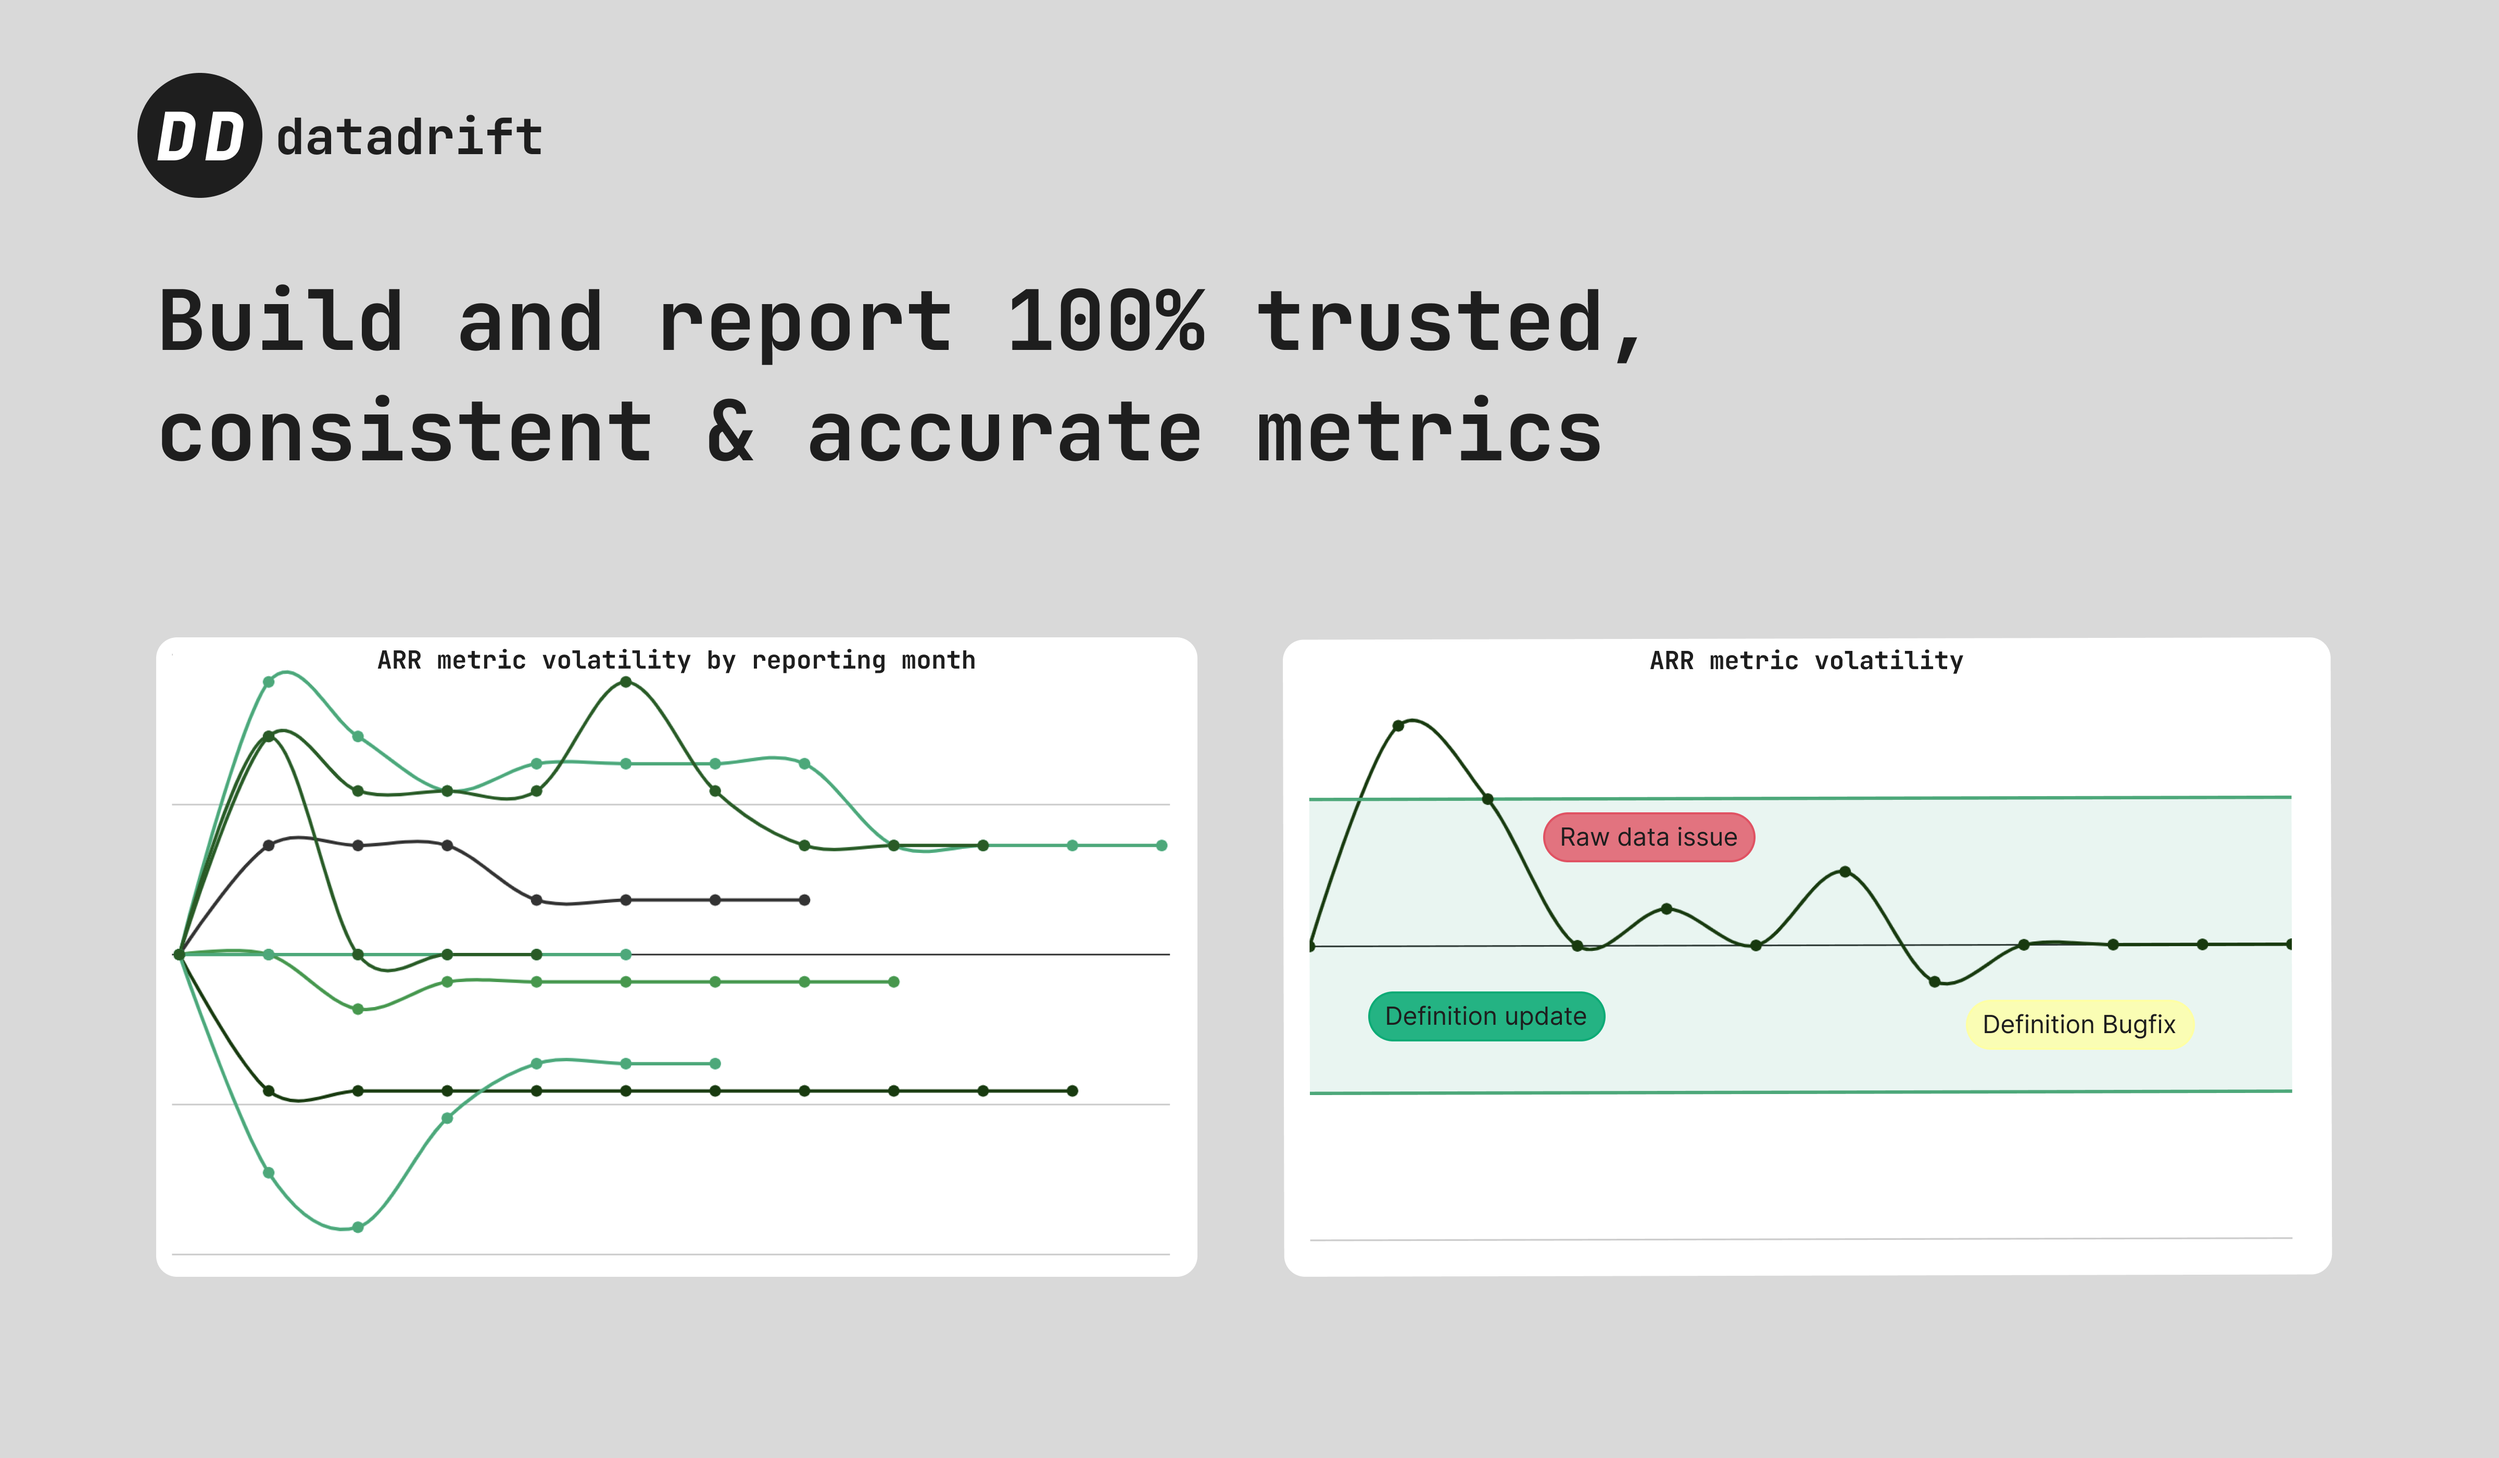
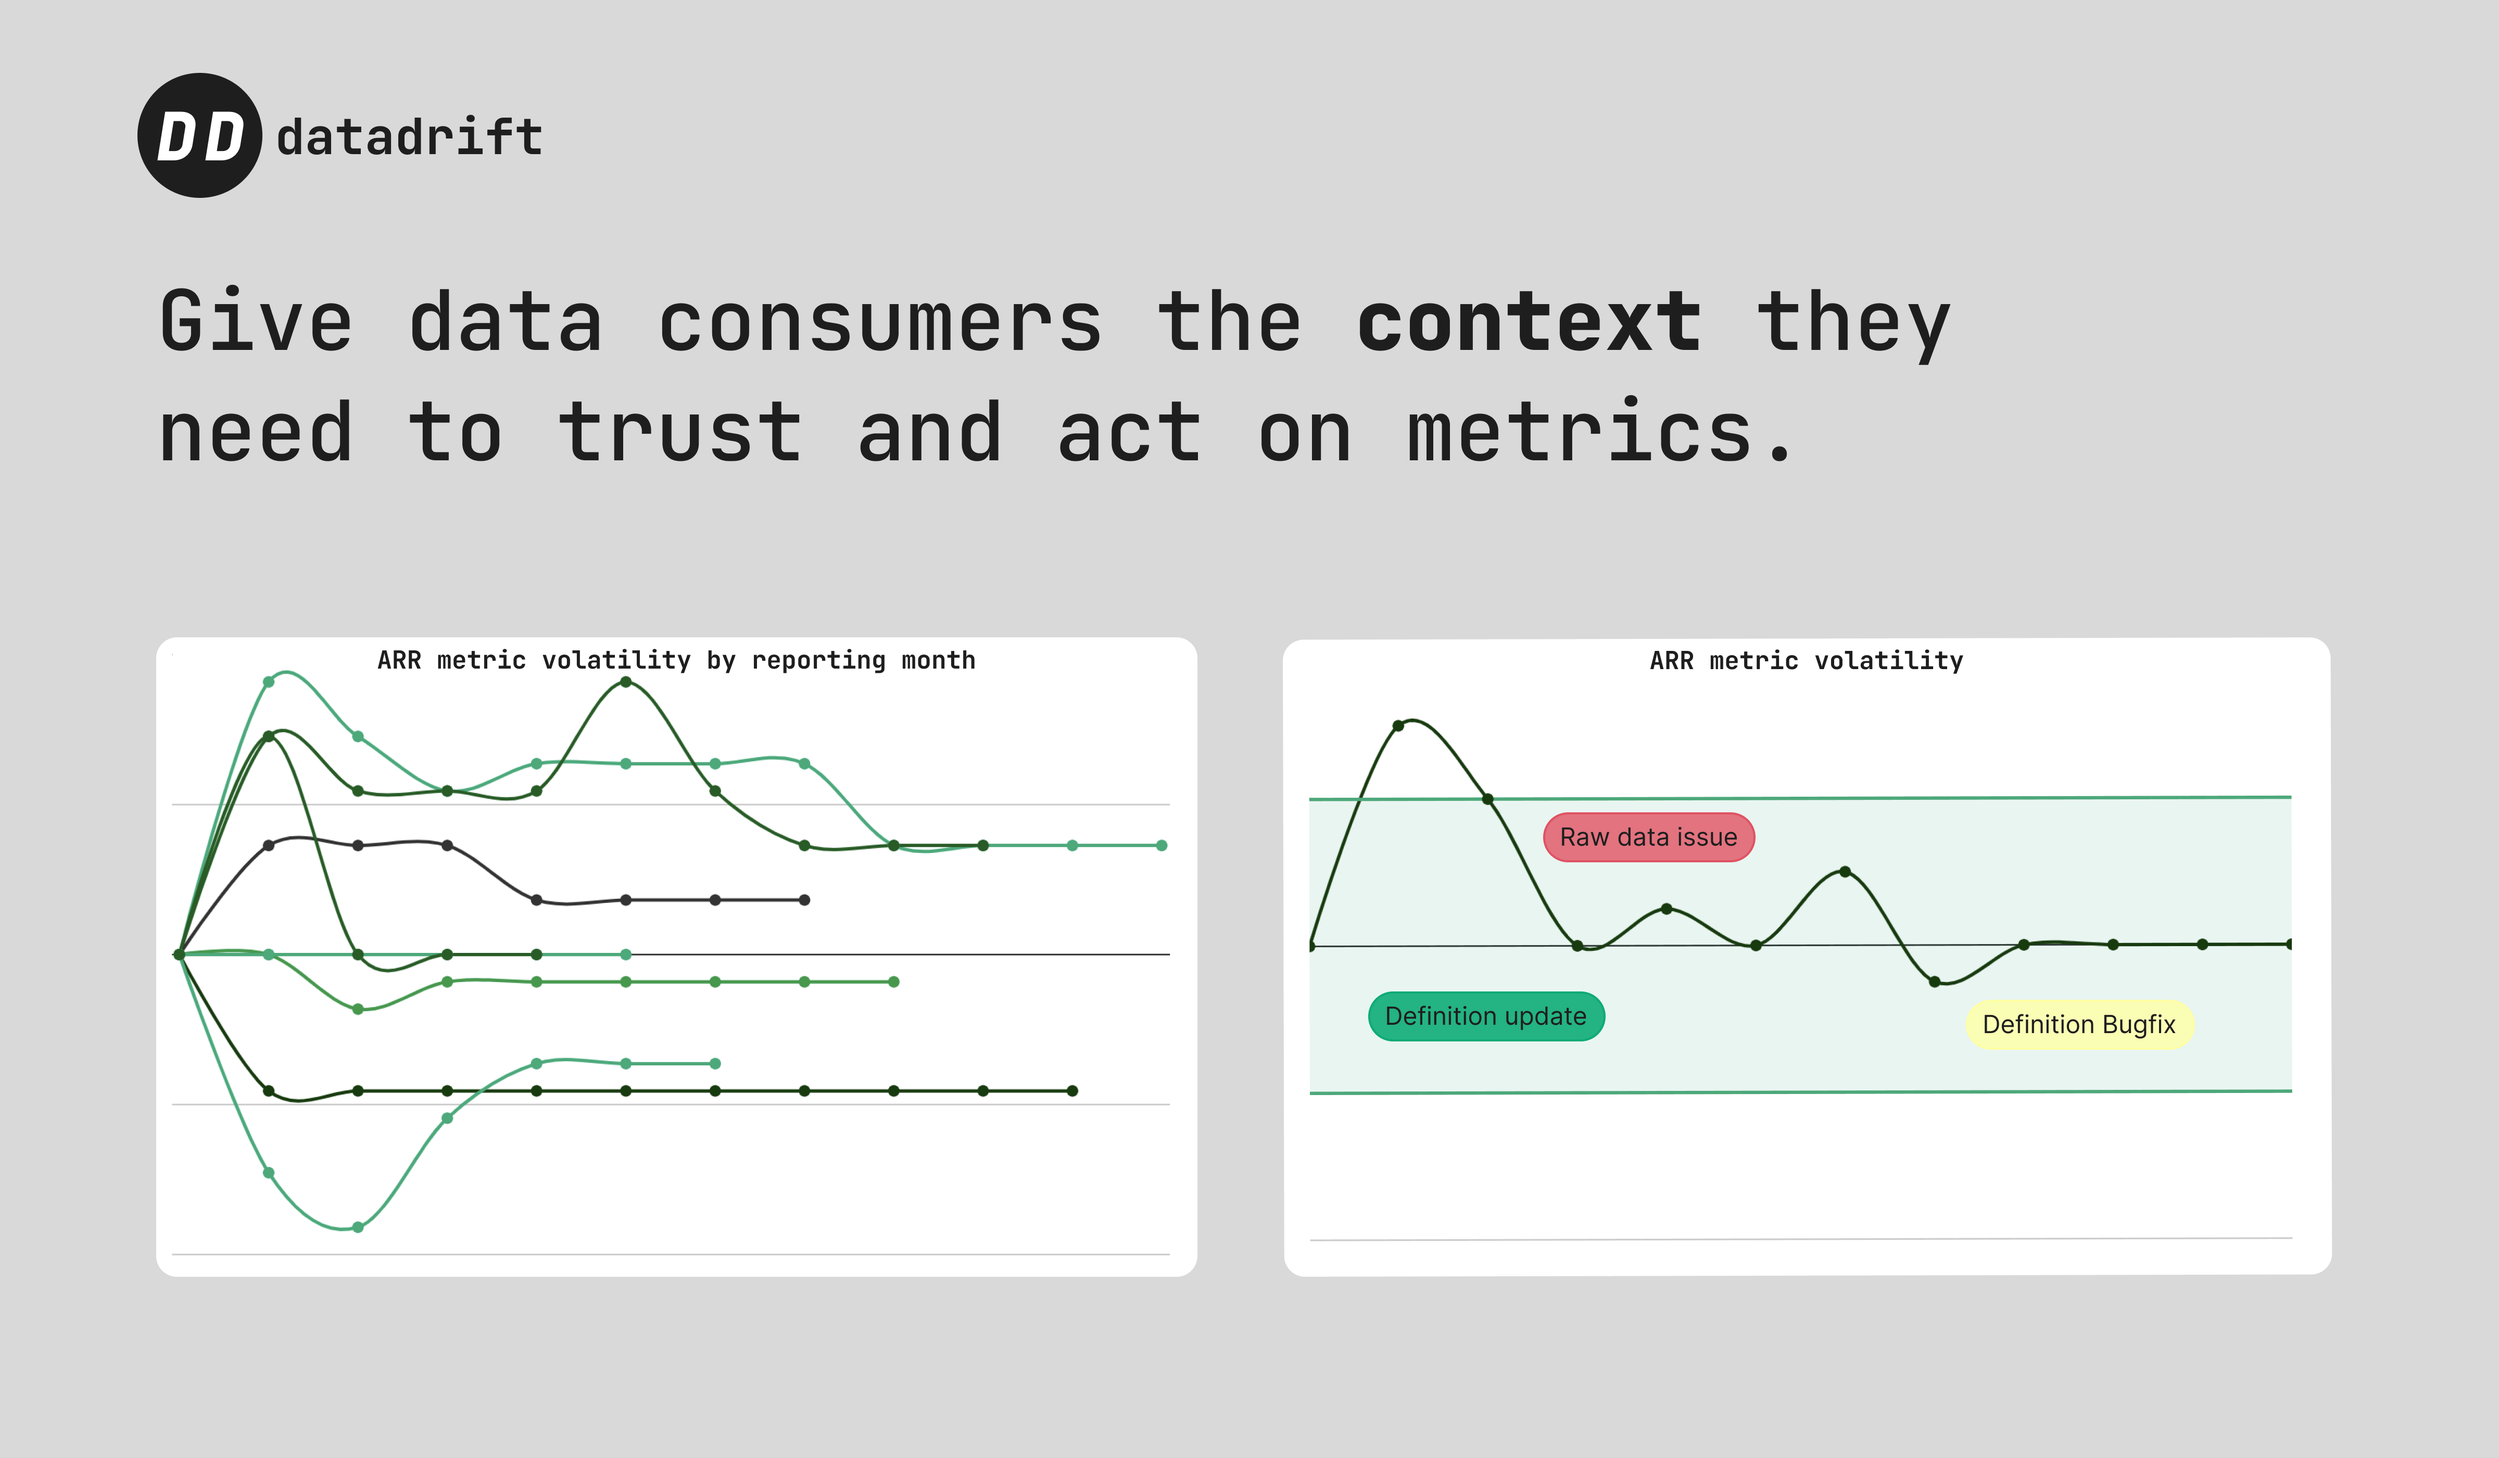
chore: update readme (#41)

Changed region(s): [[0.0625, 0.1864, 0.7812, 0.2486], [0.0625, 0.2796, 0.7188, 0.3418]]

diff --git a/README.md b/README.md
@@ -5,41 +5,114 @@
   </a>
 </p>
 
-<h1 align="center" >A Changelog for Data</h1>
-<p align="center">Git-Based. Data-Consumer-Friendly.</p>
+<h1 align="center" >The Context Layer for your Metrics</h1>
+<p align="center">Supercharge your semantic layer with context & observability to built trusted and actionnable metrics</p>
 
-<p align="center"><a href="https://data-drift.io">Website</a> · <a href="https://www.data-drift.io/blog">Blog</a></p>
-
+<p align="center"><a href="https://data-drift.io">Website</a> · <a href="https://www.data-drift.io/blog">Blog</a> · <a href="https://github.com/data-drift/data-drift/issues">Issues</p>
+</br>
 <p align="center">
   <a href="https://www.data-drift.io">
     <img src="./datadrift-hero-charts.png" alt="DataDrift hero with metric volatility charts" />
   </a>
 </p>
+</br>
 
-# Datadrift is an open-source metric-focused data quality tool
-- Historize your key metrics with data-git to get started quickly
-- Monitor unexpected raw data updates impacting an historical metric  
-- Investigate simply what data has changed and how the metric has been impacted  
-- Report automatically why the metric has drifted via a shared Notion page with data consumers 
-- Keep control over your data by deploying on your infrastructure 
+# 👋 About
 
-# Get started for free
-We are just launching our beta and are looking for feedbacks.
+## The Problem: Data consumers interact with raw metrics only. Context is key to make metrics trusted and actionable.  
 
-# Contributing
-We <3 contributions big and small. In priority order (although everything is appreciated) with the most helpful first:
+</br>
+Most data consumers never query a data warehouse table, yet use data on a daily basis through the lens of metrics.  
 
-- Give us feedback by filling this [form](https://forms.gle/8q2NzoZC417cgdo38)
-- Submit a feature request or bug report directly in this [form](https://forms.gle/8q2NzoZC417cgdo38)
+To trust metrics and make decisions based on them, we need to guarante the quality of the metrics itself (not only the underlying tables) and give (a lot of) context around it.
 
-# Philosophy 
-Accurate warehouse data is essential but current tools only address row-level quality (e.g. non-null values), not time-varying metrics like ARR or revenues. These metrics inform critical decisions for internal teams, investors, and public markets. Financial metrics in particular demand precision and immutability.
+</br>
+Context is vital because is gives data consumers awareness of: 
 
-However, metrics from your data warehouse are mutable due to:
-- human errors (engineering team has bugs, third party API has bugs);
-- breaking changes (definition of KPI is changed); and
-- delay to reach its final state (eg. a transaction status assumed to be completed but canceled several weeks after).
+- **Computation**: how a metric was calculated and associated caveats  
 
-As a result, data consumers (finance teams, accounting, executives or investors) consistently require data analysts to investigate “data quality” issues. The data analyst becomes an auditor.
+- **Gouvernance**: who computed the metric, who reviewed it and who acts on it  
 
-Our ultimate goal: ***transform the data warehouse into a reliable, audit-ready system for crucial decision-making, with 100% accurate and trusted metrics.***
+- **Changelog**: when was the metric computed, when was it last updated and what was the impact of the change  
+
+- **Historical trajectory**: what happened to the metric overtime to prevent misinterpretation (remember the reason of that single unexpected revenue drop last quarter?)
+
+</br>
+<p align="center">
+  <a href="https://www.data-drift.io">
+    <img src="./datadrift-repo-meme.png" alt="DataDrift hero with metric volatility charts" />
+  </a>
+</p>
+Data teams be like...(yes, providing context is hard)
+
+</br>
+
+
+## The Solution: Datadrift, the open-source context layer for data-driven companies
+
+- Comprehensive **metadata** to certify a quality standard for metrics  
+
+- Easy governance with **version control and historisation**
+
+- Usable **changelog and audit trail** of a metric lifecycle for data consumers  
+
+- Visibility and **centralized knowledge** of a metric’s historical trajectory
+
+</br>
+
+**Open-source, Open Architecture:**
+
+- **Flexible**: compose your own context layer based on our building blocks  
+
+- **Secure**: deploy on your own infra to keep control over your data  
+
+- **Integrated**: not another tool to manage in your stack, use datadrift directly from current tools (dbt, BI)
+
+</br>
+
+# 🚀 Quickstart
+
+## Deploy locally
+Coming soon. In the meantime, you can you [join our Design Partner Programme.](https://www.data-drift.io/design-partner)
+
+## Use our cloud-based product
+[Contact our team by filling the form on our website](https://www.data-drift.io/) to get started with Datadrift Cloud.
+
+</br>
+
+# 💚 Helping us
+
+We 💚 contributions big and small. In priority order (although everything is appreciated) with the most helpful first:
+
+- Star this repo to help us get visibility
+- Open an issue to share your idea or a bug you might have spotted
+
+</br>
+
+# 🗓 Roadmap
+
+## Released
+
+✅ Metric snapshots and diff checks
+
+✅ Historical trajectory monitoring and alerting
+
+✅ Metric changelog for data consumers
+
+## In progress
+
+🌀 Automatic lineage drill-down and diff checks
+
+🌀 dbt integration
+
+## Next
+
+🗓 Sharing via Slack & emails 
+
+🗓 Warehouse native integration
+
+🗓 BI tools integration
+
+🗓 Gsheet integration
+
+🆕 **Open an issue to share your feature requests**
